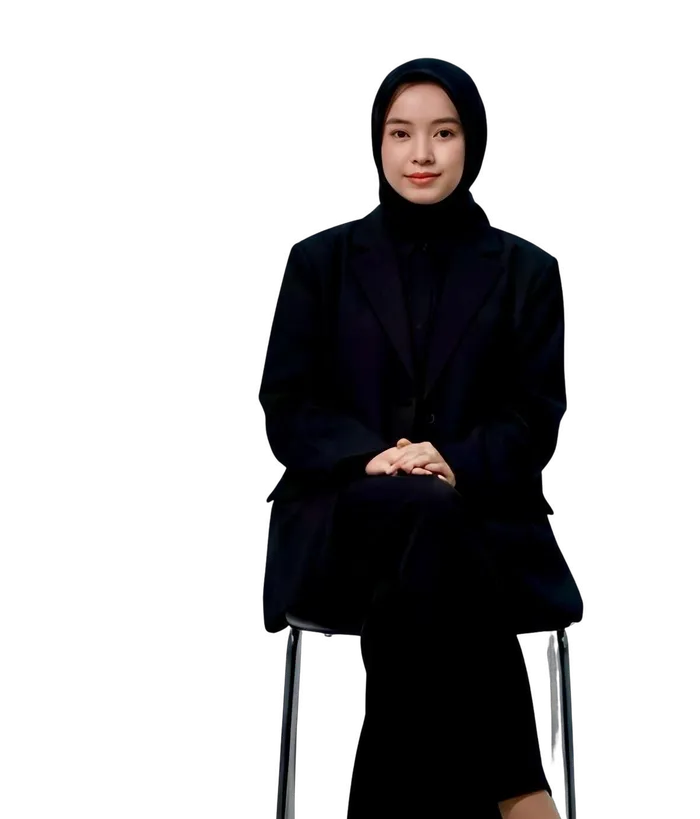
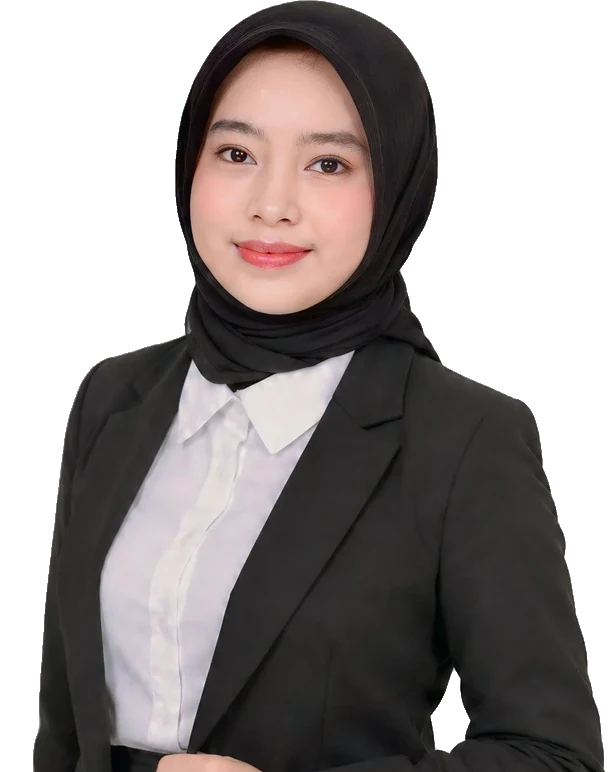
Add formal photos, all certificates, CV and Innovation Hub links
- Hero and About use the new formal photos with background removed
- Certificate gallery with 18 certificates from Google Drive (click to enlarge)
- MagangHub certificate and Pertamina completion letter on internship cards
- View my CV buttons (nav, About, Skills, Contact)
- View the project link for Innovation Hub Dashboard

Claude-Session: https://claude.ai/code/session_01LQvq7kAKSrYTfVRcqi52Rd

diff --git a/index.html b/index.html
@@ -7,7 +7,7 @@
 <meta name="description" content="Portfolio of Rizka Ayu Dwi Sugiharto — International Economics graduate (GPA 3.84) with internships in strategic planning, finance and supply chain at Pelindo, Kemenimipas and Pertamina.">
 <meta property="og:title" content="Rizka Ayu Dwi Sugiharto — Portfolio">
 <meta property="og:description" content="Strategic Planning & Finance. Internships at Pelindo Sinergi Lokaseva, Ministry of Immigration and Corrections, and Pertamina Training & Consulting.">
-<meta property="og:image" content="assets/rizka-hero.webp">
+<meta property="og:image" content="https://rizkaayudwisugiharto27-hue.github.io/assets/rizka-hero.webp">
 <link rel="preconnect" href="https://fonts.googleapis.com">
 <link rel="preconnect" href="https://fonts.gstatic.com" crossorigin>
 <link rel="stylesheet" href="https://fonts.googleapis.com/css2?family=Bebas+Neue&family=Montserrat:wght@400;500;600;700;800&display=swap">
@@ -41,6 +41,7 @@ ul{padding:0;list-style:none}
 .menu{display:flex;gap:2px;margin-left:auto;flex-wrap:wrap}
 .menu a{font-size:.82rem;font-weight:600;text-decoration:none;padding:7px 13px;border-radius:999px;color:var(--on-dark-2)}
 .menu a:hover,.menu a.on{background:#fff;color:var(--panel-2)}
+.menu a.cv{border:1.5px solid rgba(255,255,255,.55);color:#fff;margin-left:4px}
 .burger{display:none;margin-left:auto;background:none;border:0;color:#fff;font:inherit;font-weight:700;font-size:.85rem;padding:8px 14px;border-radius:999px;cursor:pointer;border:1.5px solid rgba(255,255,255,.5)}
 @media (max-width:880px){
   .burger{display:block}
@@ -57,16 +58,16 @@ ul{padding:0;list-style:none}
 .hero-title{position:absolute;top:44%;left:50%;transform:translate(-50%,-50%);text-align:left}
 .hero-word{font-family:var(--f-display);font-size:clamp(5.5rem,22vw,19rem);line-height:.8;letter-spacing:.01em;white-space:nowrap;color:#fff;text-shadow:0 6px 30px rgba(0,0,0,.18);user-select:none}
 .hero-eyebrow{margin:0 0 .2em .3em;font-weight:700;font-size:clamp(.85rem,1.6vw,1.15rem);letter-spacing:.02em}
-.hero-photo{position:relative;align-self:end;width:clamp(240px,34vw,420px);filter:drop-shadow(0 20px 40px rgba(0,0,0,.35))}
+.hero-photo{position:relative;align-self:end;width:clamp(210px,27vw,350px);filter:drop-shadow(0 20px 40px rgba(0,0,0,.35))}
 .hero-photo img{width:100%;height:auto}
 .hero-tag{position:absolute;bottom:clamp(28px,6vh,60px);left:50%;transform:translateX(-50%);background:rgba(255,255,255,.92);color:#3b3b3d;border-radius:999px;padding:9px 22px;font-size:clamp(.85rem,1.5vw,1.05rem);white-space:nowrap;box-shadow:0 10px 30px rgba(0,0,0,.2)}
 .hero-tag b{font-weight:800}
 @media (max-width:640px){
   .hero{min-height:auto}
-  .hero-in{min-height:600px}
-  .hero-title{top:36%;text-align:center}
+  .hero-in{min-height:620px}
+  .hero-title{top:22%;text-align:center}
   .hero-eyebrow{margin-left:0}
-  .hero-photo{width:min(78vw,330px)}
+  .hero-photo{width:min(58vw,235px)}
   .hero-tag{white-space:normal;text-align:center;width:max-content;max-width:calc(100% - 40px)}
 }
 
@@ -88,7 +89,7 @@ section{padding:88px 0}
 .btn.ghost{background:transparent;color:inherit;border:1.5px solid currentColor}
 
 /* ===== About ===== */
-.about-card{display:grid;grid-template-columns:1fr 300px;gap:32px;align-items:end;background:var(--panel);color:#fff;border-radius:34px;padding:44px 44px 0;overflow:hidden}
+.about-card{display:grid;grid-template-columns:1fr 280px;gap:32px;align-items:end;background:var(--panel);color:#fff;border-radius:34px;padding:44px 44px 0;overflow:hidden}
 .about-card .hi{font-weight:800;font-size:clamp(3rem,6vw,4.4rem);line-height:1;float:left;margin:4px 18px 0 0}
 .about-card .intro{font-size:1.05rem;margin-bottom:12px}
 .about-card .bio{font-weight:600;color:var(--on-dark-2);line-height:1.75}
@@ -187,6 +188,9 @@ section{padding:88px 0}
 .shot{padding:0;border:1px solid var(--line);border-radius:12px;overflow:hidden;background:#fff;cursor:zoom-in;aspect-ratio:16/9}
 .shot img{width:100%;height:100%;object-fit:cover;object-position:top;transition:transform .3s}
 .shot:hover img{transform:scale(1.04)}
+.shot.doc{background:#f1f1f3}
+.shot.doc img{object-fit:contain;padding:6px}
+.proof .shots{grid-template-columns:repeat(auto-fill,minmax(130px,1fr))}
 .minis{display:grid;grid-template-columns:repeat(3,1fr);gap:10px;margin-top:16px}
 .mini{background:var(--bg);border-radius:14px;padding:12px;text-align:center}
 .mini b{display:block;font-size:1.5rem;font-weight:800;color:var(--panel-2);line-height:1.1}
@@ -276,6 +280,7 @@ section{padding:88px 0}
 
 /* ===== Skills ===== */
 .skills{display:grid;grid-template-columns:repeat(2,1fr);gap:22px}
+.cv-box{display:flex;flex-direction:column;align-items:flex-start;gap:14px}
 .sk{background:var(--surface);border:1px solid var(--line);border-radius:28px;padding:30px}
 .sk h3{font-family:var(--f-display);font-weight:400;font-size:2.4rem;line-height:1;color:var(--panel);margin-bottom:16px}
 .chips{display:flex;flex-wrap:wrap;gap:10px}
@@ -284,17 +289,19 @@ section{padding:88px 0}
 @media (max-width:760px){.skills{grid-template-columns:1fr}}
 
 /* ===== Certificates ===== */
-.certs{display:grid;grid-template-columns:repeat(2,1fr);gap:22px}
-.cgroup{background:var(--panel-2);border-radius:28px;padding:28px}
-.cgroup h3{font-family:var(--f-display);font-weight:400;font-size:2.1rem;line-height:1;margin-bottom:16px}
-.clist li{display:flex;align-items:center;gap:14px;padding:11px 0;border-top:1px solid rgba(255,255,255,.16)}
-.clist li:first-child{border-top:0}
-.clist .ic{flex:none;width:34px;height:34px;border-radius:10px;background:rgba(255,255,255,.12);display:grid;place-items:center;font-family:var(--f-display);font-size:1rem;color:#fff}
-.clist .txt{flex:1;font-weight:600;font-size:.94rem}
-.clist .txt span{display:block;font-weight:500;font-size:.8rem;color:var(--on-dark-3)}
-.clist button{flex:none;font:inherit;font-size:.78rem;font-weight:700;border-radius:999px;border:1.5px solid rgba(255,255,255,.6);background:transparent;color:#fff;padding:5px 12px;cursor:pointer}
-.clist button:hover{background:#fff;color:var(--panel-2)}
-@media (max-width:860px){.certs{grid-template-columns:1fr}}
+.cert-groups{display:flex;flex-direction:column;gap:44px}
+.cg-head{display:flex;align-items:baseline;justify-content:space-between;gap:14px;margin-bottom:16px;border-bottom:2px solid var(--panel);padding-bottom:8px}
+.cg-head h3{font-family:var(--f-display);font-weight:400;font-size:2.2rem;line-height:1;color:var(--panel)}
+.cg-head span{color:var(--ink-3);font-weight:700;font-size:.8rem;white-space:nowrap}
+.cgrid{display:grid;grid-template-columns:repeat(auto-fill,minmax(210px,1fr));gap:16px}
+.ccard{display:flex;flex-direction:column;padding:0;border:1px solid var(--line);background:var(--surface);border-radius:18px;overflow:hidden;cursor:zoom-in;text-align:left;font:inherit;color:inherit;transition:transform .2s ease,box-shadow .2s ease}
+.ccard:hover{transform:translateY(-3px);box-shadow:0 12px 28px rgba(0,0,0,.12)}
+.ccard .im{position:relative;display:block;aspect-ratio:4/3;background:#ececef}
+.ccard img{position:absolute;inset:12px;width:calc(100% - 24px);height:calc(100% - 24px);object-fit:contain;filter:drop-shadow(0 2px 6px rgba(0,0,0,.14))}
+.ccard .ct{display:block;padding:12px 14px 14px}
+.ccard b{display:block;font-weight:700;font-size:.88rem;line-height:1.35}
+.ccard small{display:block;margin-top:4px;font-size:.76rem;color:var(--ink-3);font-weight:600}
+@media (max-width:480px){.cgrid{grid-template-columns:1fr 1fr;gap:10px}.ccard .ct{padding:10px}.ccard b{font-size:.8rem}}
 
 /* ===== Contact ===== */
 .contact{text-align:center}
@@ -336,6 +343,7 @@ footer .wrap{display:flex;justify-content:space-between;gap:12px;flex-wrap:wrap}
         <a href="#skills">Skills</a>
         <a href="#certificates">Certificates</a>
         <a href="#contact">Contact</a>
+        <a class="cv" href="https://drive.google.com/file/d/1XIF4_O2ZOfrAq-InvuktB1GOjL13QoBQ/view?usp=drivesdk" target="_blank" rel="noopener">CV ↗</a>
       </div>
     </nav>
   </div>
@@ -349,7 +357,7 @@ footer .wrap{display:flex;justify-content:space-between;gap:12px;flex-wrap:wrap}
       <p class="hero-eyebrow">Strategic Planning &amp; Finance</p>
       <div class="hero-word" aria-hidden="true">PORTFOLIO</div>
     </div>
-    <div class="hero-photo"><img src="assets/rizka-hero.webp" alt="Rizka Ayu Dwi Sugiharto" width="628" height="981"></div>
+    <div class="hero-photo"><img src="assets/rizka-hero.webp" alt="Rizka Ayu Dwi Sugiharto" width="650" height="1277"></div>
     <h1 class="hero-tag">Presented by <b>Rizka Ayu Dwi Sugiharto</b></h1>
   </div>
 </div>
@@ -363,17 +371,17 @@ footer .wrap{display:flex;justify-content:space-between;gap:12px;flex-wrap:wrap}
         <p class="intro">I’m <b>Rizka Ayu Dwi Sugiharto</b> from <b>South Jakarta!</b></p>
         <p class="bio">International Economics graduate (GPA 3.84/4.00) with three internships in strategic planning, finance, and supply chain across state-owned enterprises and government. Experienced in RJPP monitoring, annual budget planning (RKA), financial analysis, and industry outlook research. Proficient in Excel, Stata, and EViews for data processing and econometric analysis. Passionate about improving business efficiency through structured planning and data-driven insights.</p>
         <div class="about-cta">
-          <a class="btn light" href="#experience">See my experience ↓</a>
-          <a class="btn ghost" href="mailto:rizkaayudwisugiharto27@gmail.com">Email me</a>
+          <a class="btn light" href="https://drive.google.com/file/d/1XIF4_O2ZOfrAq-InvuktB1GOjL13QoBQ/view?usp=drivesdk" target="_blank" rel="noopener">View my CV ↗</a>
+          <a class="btn ghost" href="#experience">See my experience ↓</a>
         </div>
       </div>
-      <div class="about-photo"><img src="assets/rizka-about.webp" alt="" width="700" height="819" loading="lazy"></div>
+      <div class="about-photo"><img src="assets/rizka-about.webp" alt="" width="608" height="772" loading="lazy"></div>
     </div>
 
     <div class="stats reveal">
       <div class="stat"><b>3</b><span>Internships</span></div>
       <div class="stat"><b>3.84</b><span>GPA (out of 4.00)</span></div>
-      <div class="stat"><b>3</b><span>Featured projects</span></div>
+      <div class="stat"><b>18</b><span>Certificates</span></div>
     </div>
 
     <div class="touch reveal">
@@ -517,6 +525,9 @@ footer .wrap{display:flex;justify-content:space-between;gap:12px;flex-wrap:wrap}
               <h4>MagangHub Certificate</h4>
               <p class="em">Kemenimipas RI (Nov 2025 – May 2026)</p>
               <p>Official MagangHub (Kemnaker RI) certificate confirming I completed the internship at the Bureau of Planning and Finance with an <b>“Excellent”</b> rating.</p>
+              <div class="shots">
+                <button class="shot doc" data-group="kemenimipas" data-src="assets/certs/maganghub-kemenimipas.webp" data-cap="MagangHub Certificate – Kemenimipas RI (Nov 2025 – May 2026)"><img src="assets/certs/maganghub-kemenimipas-thumb.webp" alt="MagangHub certificate" loading="lazy"></button>
+              </div>
             </div>
             <div class="proof">
               <h4>Team innovation: SI-REKAP PERJADIN</h4>
@@ -556,6 +567,7 @@ footer .wrap{display:flex;justify-content:space-between;gap:12px;flex-wrap:wrap}
               <p>Official letter from HC &amp; GA confirming I completed the Supply Chain Planning internship and fulfilled all assigned duties and responsibilities well.</p>
             </div>
             <div class="shots">
+              <button class="shot doc" data-group="pertamina" data-src="assets/certs/pertamina-completion-letter.webp" data-cap="Internship Completion Letter – PT Pertamina Training &amp; Consulting"><img src="assets/certs/pertamina-completion-letter-thumb.webp" alt="Internship completion letter" loading="lazy"></button>
               <button class="shot" data-group="pertamina" data-cap="Fuel distribution schedule monitoring in DELMIA Quintiq"><img src="assets/pertamina-distribution.webp" alt="Fuel distribution schedule monitoring in DELMIA Quintiq" loading="lazy"></button>
               <button class="shot" data-group="pertamina" data-cap="Daily distribution and vessel data verification"><img src="assets/pertamina-data.webp" alt="Daily distribution and vessel data verification" loading="lazy"></button>
             </div>
@@ -749,6 +761,7 @@ footer .wrap{display:flex;justify-content:space-between;gap:12px;flex-wrap:wrap}
         <h3>Innovation Hub Dashboard – Pelindo Sinergi Lokaseva</h3>
         <p>Google Sheets + Apps Script web app that turns the SPSL innovation data bank into a live monitoring dashboard.</p>
         <div class="tags"><span class="tag">Google Sheets</span><span class="tag">Apps Script</span><span class="tag">Innovation monitoring</span></div>
+        <a class="btn light" href="https://script.google.com/macros/s/AKfycbwEEaQI-RCK1s31UnpRGKp6aLm6DQ1RZsMGfku10ogzkHh6GXuUIFlAGb1C1LMUXTYwJA/exec" target="_blank" rel="noopener">View the project ↗</a>
       </article>
     </div>
 
@@ -812,7 +825,7 @@ footer .wrap{display:flex;justify-content:space-between;gap:12px;flex-wrap:wrap}
   <div class="wrap">
     <div class="sec-head reveal">
       <div><span class="kicker">What I bring</span><h2 class="title">Skills</h2></div>
-      <p class="lede">Tools: Excel • Stata • EViews • DELMIA Quintiq • Google Sheets &amp; Apps Script</p>
+      <div class="cv-box"><p class="lede">Tools: Excel • Stata • EViews • DELMIA Quintiq • Google Sheets &amp; Apps Script</p><a class="btn light" href="https://drive.google.com/file/d/1XIF4_O2ZOfrAq-InvuktB1GOjL13QoBQ/view?usp=drivesdk" target="_blank" rel="noopener">Curriculum Vitae — view my CV ↗</a></div>
     </div>
     <div class="skills">
       <div class="sk reveal">
@@ -839,46 +852,46 @@ footer .wrap{display:flex;justify-content:space-between;gap:12px;flex-wrap:wrap}
   <div class="wrap">
     <div class="sec-head reveal">
       <div><span class="kicker">Credentials &amp; Achievements</span><h2 class="title">Certificates</h2></div>
-      <p class="lede">Professional development, competency certification, awards and global exposure. Tap <b>View</b> to open a certificate.</p>
+      <p class="lede">Professional development, competency certification, awards and global exposure. Tap any certificate to view it full size.</p>
     </div>
-    <div class="certs">
-      <div class="cgroup dark reveal">
-        <h3>Professional Development</h3>
-        <ul class="clist">
-          <li><span class="ic">01</span><span class="txt">Cargo Logistics Preparation Procedures</span></li>
-          <li><span class="ic">02</span><span class="txt">Planning, Organizing &amp; Controlling</span></li>
-          <li><span class="ic">03</span><span class="txt">Financial Planning &amp; Asset Management</span></li>
-          <li><span class="ic">04</span><span class="txt">Corporate Finance<span>MySkill</span></span></li>
-        </ul>
+    <div class="cert-groups">
+      <div class="cg reveal">
+        <div class="cg-head"><h3>Professional Development</h3><span>4 certificates</span></div>
+        <div class="cgrid">
+          <button class="ccard" data-group="cert" data-src="assets/certs/cargo-logistics.webp" data-cap="Cargo Logistics Preparation Procedures – InJourney Aviation Services"><span class="im"><img src="assets/certs/cargo-logistics-thumb.webp" alt="Cargo Logistics Preparation Procedures certificate" loading="lazy"></span><span class="ct"><b>Cargo Logistics Preparation Procedures</b><small>InJourney Aviation Services</small></span></button>
+          <button class="ccard" data-group="cert" data-src="assets/certs/planning-organizing-controlling.webp" data-cap="Planning, Organizing &amp; Controlling – CAMY Collaboration Academy"><span class="im"><img src="assets/certs/planning-organizing-controlling-thumb.webp" alt="Planning, Organizing &amp; Controlling certificate" loading="lazy"></span><span class="ct"><b>Planning, Organizing &amp; Controlling</b><small>CAMY Collaboration Academy</small></span></button>
+          <button class="ccard" data-group="cert" data-src="assets/certs/financial-planning-asset.webp" data-cap="Financial Planning &amp; Asset Management – CAMY Collaboration Academy"><span class="im"><img src="assets/certs/financial-planning-asset-thumb.webp" alt="Financial Planning &amp; Asset Management certificate" loading="lazy"></span><span class="ct"><b>Financial Planning &amp; Asset Management</b><small>CAMY Collaboration Academy</small></span></button>
+          <button class="ccard" data-group="cert" data-src="assets/certs/corporate-finance-myskill.webp" data-cap="Corporate Finance – MySkill · Skill Specialization"><span class="im"><img src="assets/certs/corporate-finance-myskill-thumb.webp" alt="Corporate Finance certificate" loading="lazy"></span><span class="ct"><b>Corporate Finance</b><small>MySkill · Skill Specialization</small></span></button>
+        </div>
       </div>
-      <div class="cgroup dark reveal">
-        <h3>Essential Skills</h3>
-        <ul class="clist">
-          <li><span class="ic">01</span><span class="txt">MS Office Path<span>MySkill</span></span></li>
-          <li><span class="ic">02</span><span class="txt">Supply Chain Management<span>Alison</span></span></li>
-          <li><span class="ic">03</span><span class="txt">MagangHub<span>Kemnaker RI</span></span></li>
-          <li><span class="ic">04</span><span class="txt">Design Thinking<span>Kemnaker</span></span></li>
-          <li><span class="ic">05</span><span class="txt">Digital Disruption<span>Kemnaker</span></span></li>
-          <li><span class="ic">06</span><span class="txt">Emotional Resilience<span>Kemnaker</span></span></li>
-        </ul>
+      <div class="cg reveal">
+        <div class="cg-head"><h3>Essential Skills</h3><span>6 certificates</span></div>
+        <div class="cgrid">
+          <button class="ccard" data-group="cert" data-src="assets/certs/ms-office-myskill.webp" data-cap="MS Office Path (Excel, Word &amp; PowerPoint) – MySkill · Professional Skill"><span class="im"><img src="assets/certs/ms-office-myskill-thumb.webp" alt="MS Office Path (Excel, Word &amp; PowerPoint) certificate" loading="lazy"></span><span class="ct"><b>MS Office Path (Excel, Word &amp; PowerPoint)</b><small>MySkill · Professional Skill</small></span></button>
+          <button class="ccard" data-group="cert" data-src="assets/certs/supply-chain-alison.webp" data-cap="Mastering Supply Chain &amp; Logistics Management – Alison"><span class="im"><img src="assets/certs/supply-chain-alison-thumb.webp" alt="Mastering Supply Chain &amp; Logistics Management certificate" loading="lazy"></span><span class="ct"><b>Mastering Supply Chain &amp; Logistics Management</b><small>Alison</small></span></button>
+          <button class="ccard" data-group="cert" data-src="assets/certs/maganghub-kemenimipas.webp" data-cap="MagangHub Internship – Kemnaker RI · Kemenimipas"><span class="im"><img src="assets/certs/maganghub-kemenimipas-thumb.webp" alt="MagangHub Internship certificate" loading="lazy"></span><span class="ct"><b>MagangHub Internship</b><small>Kemnaker RI · Kemenimipas</small></span></button>
+          <button class="ccard" data-group="cert" data-src="assets/certs/design-thinking.webp" data-cap="Design Thinking – Kemnaker · Essential Skills"><span class="im"><img src="assets/certs/design-thinking-thumb.webp" alt="Design Thinking certificate" loading="lazy"></span><span class="ct"><b>Design Thinking</b><small>Kemnaker · Essential Skills</small></span></button>
+          <button class="ccard" data-group="cert" data-src="assets/certs/digital-disruption.webp" data-cap="Digital Disruption &amp; Transformation – Kemnaker · Essential Skills"><span class="im"><img src="assets/certs/digital-disruption-thumb.webp" alt="Digital Disruption &amp; Transformation certificate" loading="lazy"></span><span class="ct"><b>Digital Disruption &amp; Transformation</b><small>Kemnaker · Essential Skills</small></span></button>
+          <button class="ccard" data-group="cert" data-src="assets/certs/emotional-resilience.webp" data-cap="Emotional Resilience – Kemnaker · Essential Skills"><span class="im"><img src="assets/certs/emotional-resilience-thumb.webp" alt="Emotional Resilience certificate" loading="lazy"></span><span class="ct"><b>Emotional Resilience</b><small>Kemnaker · Essential Skills</small></span></button>
+        </div>
       </div>
-      <div class="cgroup dark reveal">
-        <h3>Credentials &amp; Achievements</h3>
-        <ul class="clist">
-          <li><span class="ic">01</span><span class="txt">2nd Runner Up – HERO 11th<span>UMY · International Call for Papers 2023</span></span><button data-group="cert" data-src="assets/cert-hero-2nd-runner-up.webp" data-cap="2nd Runner Up – HERO 11th UMY">View</button></li>
-          <li><span class="ic">02</span><span class="txt">BNSP Competency Certificate<span>LSP UMY</span></span><button data-group="cert" data-src="assets/cert-bnsp.webp" data-cap="BNSP Competency Certificate – LSP UMY">View</button></li>
-          <li><span class="ic">03</span><span class="txt">Susenas STATA Workshop<span>UGM</span></span></li>
-          <li><span class="ic">04</span><span class="txt">Microsoft Excel Training<span>UMY</span></span><button data-group="cert" data-src="assets/cert-excel-umy.webp" data-cap="Microsoft Excel Training – UMY">View</button></li>
-          <li><span class="ic">05</span><span class="txt">Applied Microsoft Office<span>Trust Training Partners · Microsoft Partner</span></span><button data-group="cert" data-src="assets/cert-applied-office.webp" data-cap="Applied Microsoft Office – Trust Training Partners">View</button></li>
-        </ul>
+      <div class="cg reveal">
+        <div class="cg-head"><h3>Credentials &amp; Achievements</h3><span>5 certificates</span></div>
+        <div class="cgrid">
+          <button class="ccard" data-group="cert" data-src="assets/certs/hero-2nd-runner-up.webp" data-cap="2nd Runner Up – HERO 11th International Call for Papers – FEB UMY · 2023"><span class="im"><img src="assets/certs/hero-2nd-runner-up-thumb.webp" alt="2nd Runner Up – HERO 11th International Call for Papers certificate" loading="lazy"></span><span class="ct"><b>2nd Runner Up – HERO 11th International Call for Papers</b><small>FEB UMY · 2023</small></span></button>
+          <button class="ccard" data-group="cert" data-src="assets/certs/susenas-stata-ugm.webp" data-cap="Susenas Data Processing with STATA – Universitas Gadjah Mada"><span class="im"><img src="assets/certs/susenas-stata-ugm-thumb.webp" alt="Susenas Data Processing with STATA certificate" loading="lazy"></span><span class="ct"><b>Susenas Data Processing with STATA</b><small>Universitas Gadjah Mada</small></span></button>
+          <button class="ccard" data-group="cert" data-src="assets/certs/bnsp-competency.webp" data-cap="BNSP Certificate of Competence – LSP UMY"><span class="im"><img src="assets/certs/bnsp-competency-thumb.webp" alt="BNSP Certificate of Competence certificate" loading="lazy"></span><span class="ct"><b>BNSP Certificate of Competence</b><small>LSP UMY</small></span></button>
+          <button class="ccard" data-group="cert" data-src="assets/certs/excel-training-umy.webp" data-cap="Microsoft Excel Training – Pusat Pengembangan Ekonomi, FEB UMY"><span class="im"><img src="assets/certs/excel-training-umy-thumb.webp" alt="Microsoft Excel Training certificate" loading="lazy"></span><span class="ct"><b>Microsoft Excel Training</b><small>Pusat Pengembangan Ekonomi, FEB UMY</small></span></button>
+          <button class="ccard" data-group="cert" data-src="assets/certs/applied-ms-office.webp" data-cap="Applied Microsoft Office – Trust Training Partners · UMY"><span class="im"><img src="assets/certs/applied-ms-office-thumb.webp" alt="Applied Microsoft Office certificate" loading="lazy"></span><span class="ct"><b>Applied Microsoft Office</b><small>Trust Training Partners · UMY</small></span></button>
+        </div>
       </div>
-      <div class="cgroup dark reveal">
-        <h3>Global Exposure</h3>
-        <ul class="clist">
-          <li><span class="ic">01</span><span class="txt">Field Study (KKL)<span>Malaysia</span></span></li>
-          <li><span class="ic">02</span><span class="txt">Academic Trip<span>UiTM Melaka</span></span></li>
-          <li><span class="ic">03</span><span class="txt">Community Service (KKN)<span>UMY</span></span></li>
-        </ul>
+      <div class="cg reveal">
+        <div class="cg-head"><h3>Global Exposure</h3><span>3 certificates</span></div>
+        <div class="cgrid">
+          <button class="ccard" data-group="cert" data-src="assets/certs/kkl-malaysia.webp" data-cap="Field Study (KKL) – Malaysia – IPIEF UMY · Jan 2023"><span class="im"><img src="assets/certs/kkl-malaysia-thumb.webp" alt="Field Study (KKL) – Malaysia certificate" loading="lazy"></span><span class="ct"><b>Field Study (KKL) – Malaysia</b><small>IPIEF UMY · Jan 2023</small></span></button>
+          <button class="ccard" data-group="cert" data-src="assets/certs/uitm-melaka.webp" data-cap="Academic Trip &amp; CSR – UiTM Melaka – Universiti Teknologi MARA"><span class="im"><img src="assets/certs/uitm-melaka-thumb.webp" alt="Academic Trip &amp; CSR – UiTM Melaka certificate" loading="lazy"></span><span class="ct"><b>Academic Trip &amp; CSR – UiTM Melaka</b><small>Universiti Teknologi MARA</small></span></button>
+          <button class="ccard" data-group="cert" data-src="assets/certs/kkn-umy.webp" data-cap="Community Service (KKN) – LPM UMY"><span class="im"><img src="assets/certs/kkn-umy-thumb.webp" alt="Community Service (KKN) certificate" loading="lazy"></span><span class="ct"><b>Community Service (KKN)</b><small>LPM UMY</small></span></button>
+        </div>
       </div>
     </div>
   </div>
@@ -903,6 +916,7 @@ footer .wrap{display:flex;justify-content:space-between;gap:12px;flex-wrap:wrap}
         <svg viewBox="0 0 24 24" fill="none" stroke="currentColor" stroke-width="2"><path d="M22 16.9v3a2 2 0 0 1-2.2 2 19.8 19.8 0 0 1-8.6-3.1 19.5 19.5 0 0 1-6-6A19.8 19.8 0 0 1 2.1 4.2 2 2 0 0 1 4.1 2h3a2 2 0 0 1 2 1.7c.13.96.36 1.9.7 2.8a2 2 0 0 1-.45 2.1L8.1 9.9a16 16 0 0 0 6 6l1.3-1.3a2 2 0 0 1 2.1-.45c.9.34 1.84.57 2.8.7a2 2 0 0 1 1.7 2z"/></svg>
         <span class="arrow">↗</span><small>wa.me/6285257422314</small></a>
     </div>
+    <p class="reveal" style="margin-top:30px"><a class="btn light" href="https://drive.google.com/file/d/1XIF4_O2ZOfrAq-InvuktB1GOjL13QoBQ/view?usp=drivesdk" target="_blank" rel="noopener">Download / view my CV ↗</a></p>
   </div>
 </section>
 </main>
@@ -942,7 +956,7 @@ footer .wrap{display:flex;justify-content:space-between;gap:12px;flex-wrap:wrap}
   } else els.forEach(function(el){el.classList.add('in');el.classList.remove('is-out');});
 
   // Active nav link
-  var links=[].slice.call(menu.querySelectorAll('a'));
+  var links=[].slice.call(menu.querySelectorAll('a[href^="#"]'));
   var secs=links.map(function(a){return document.querySelector(a.getAttribute('href'));});
   window.addEventListener('scroll',function(){var y=window.scrollY+120,cur=-1;
     secs.forEach(function(s,i){if(s&&s.offsetTop<=y)cur=i;});

diff --git a/README.md b/README.md
@@ -8,7 +8,8 @@ Isi website mengikuti deck Canva "Portofolio _ Rizka Ayu Dwi Sugiharto".
 
 ## Struktur file
 - `index.html` — seluruh teks, tampilan, dan grafik website
-- `assets/` — foto profil, dokumentasi kerja, dan sertifikat (format .webp)
+- `assets/` — foto profil dan dokumentasi kerja (format .webp)
+- `assets/certs/` — gambar sertifikat (`nama.webp`) + versi kecilnya (`nama-thumb.webp`)
 
 ## Cara update
 **Mengubah teks** (pengalaman, keahlian, kontak): buka `index.html` di GitHub,
@@ -18,7 +19,7 @@ klik ikon pensil (Edit), cari teks yang mau diubah (Ctrl+F), ubah, lalu klik **C
 lalu di `index.html` tambahkan tombol seperti contoh yang sudah ada, misalnya:
 
 ```html
-<button data-group="cert" data-src="assets/nama-file.jpg" data-cap="Nama Sertifikat">View</button>
+<button class="ccard" data-group="cert" data-src="assets/certs/nama-file.webp" data-cap="Nama Sertifikat – Penerbit"><span class="im"><img src="assets/certs/nama-file.webp" alt="" loading="lazy"></span><span class="ct"><b>Nama Sertifikat</b><small>Penerbit</small></span></button>
 ```
 
 Perubahan tampil di website dalam 1–2 menit.
